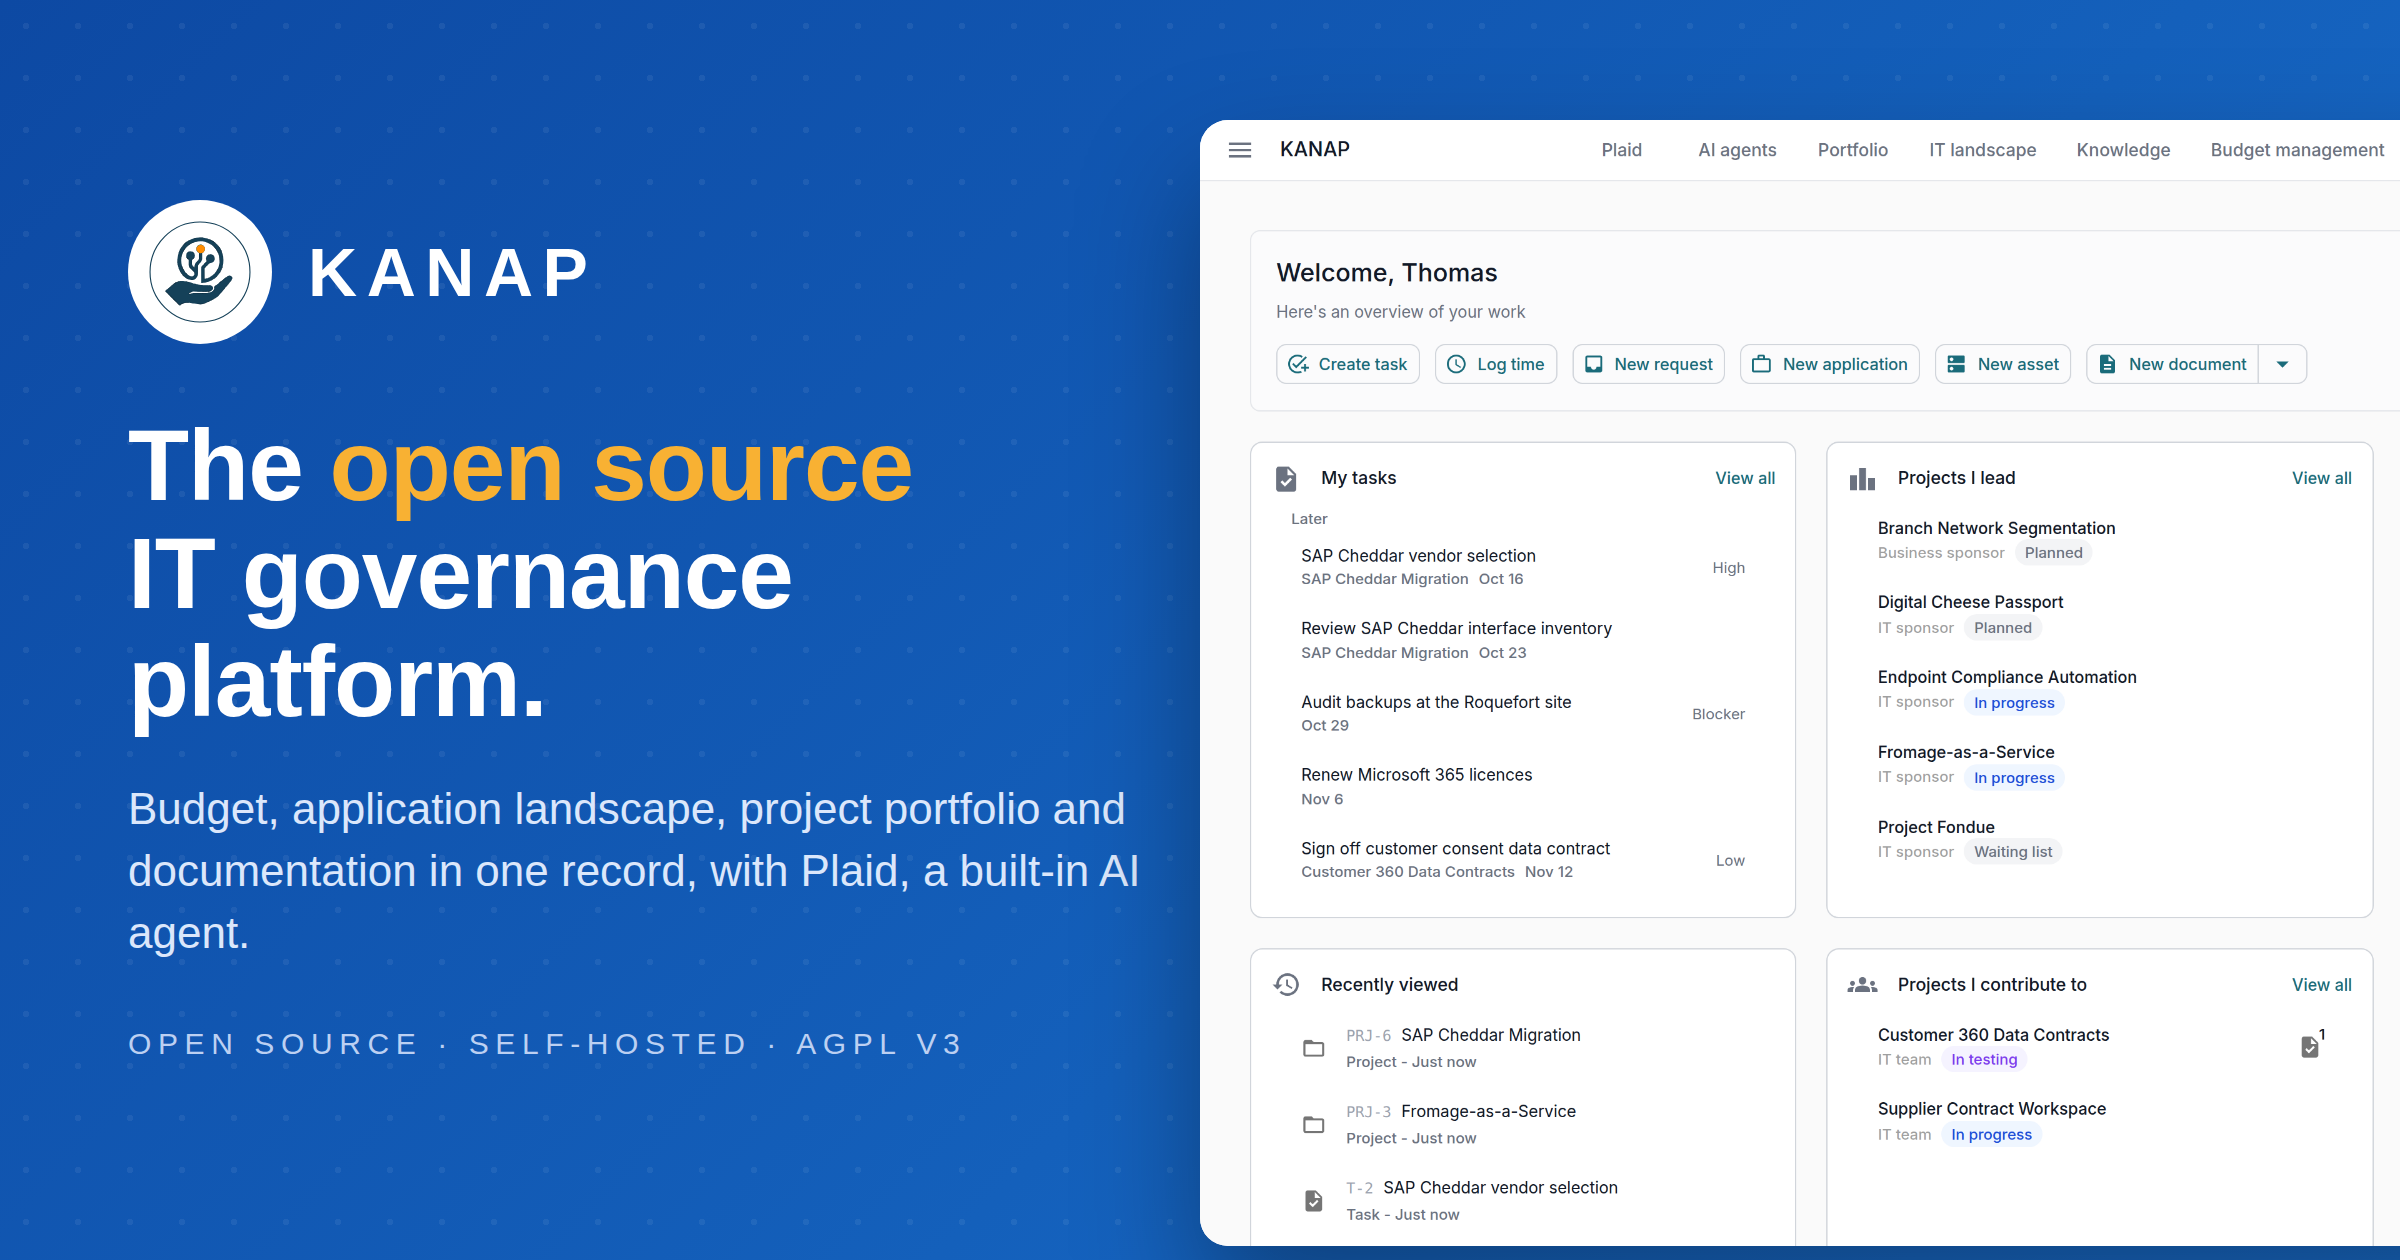
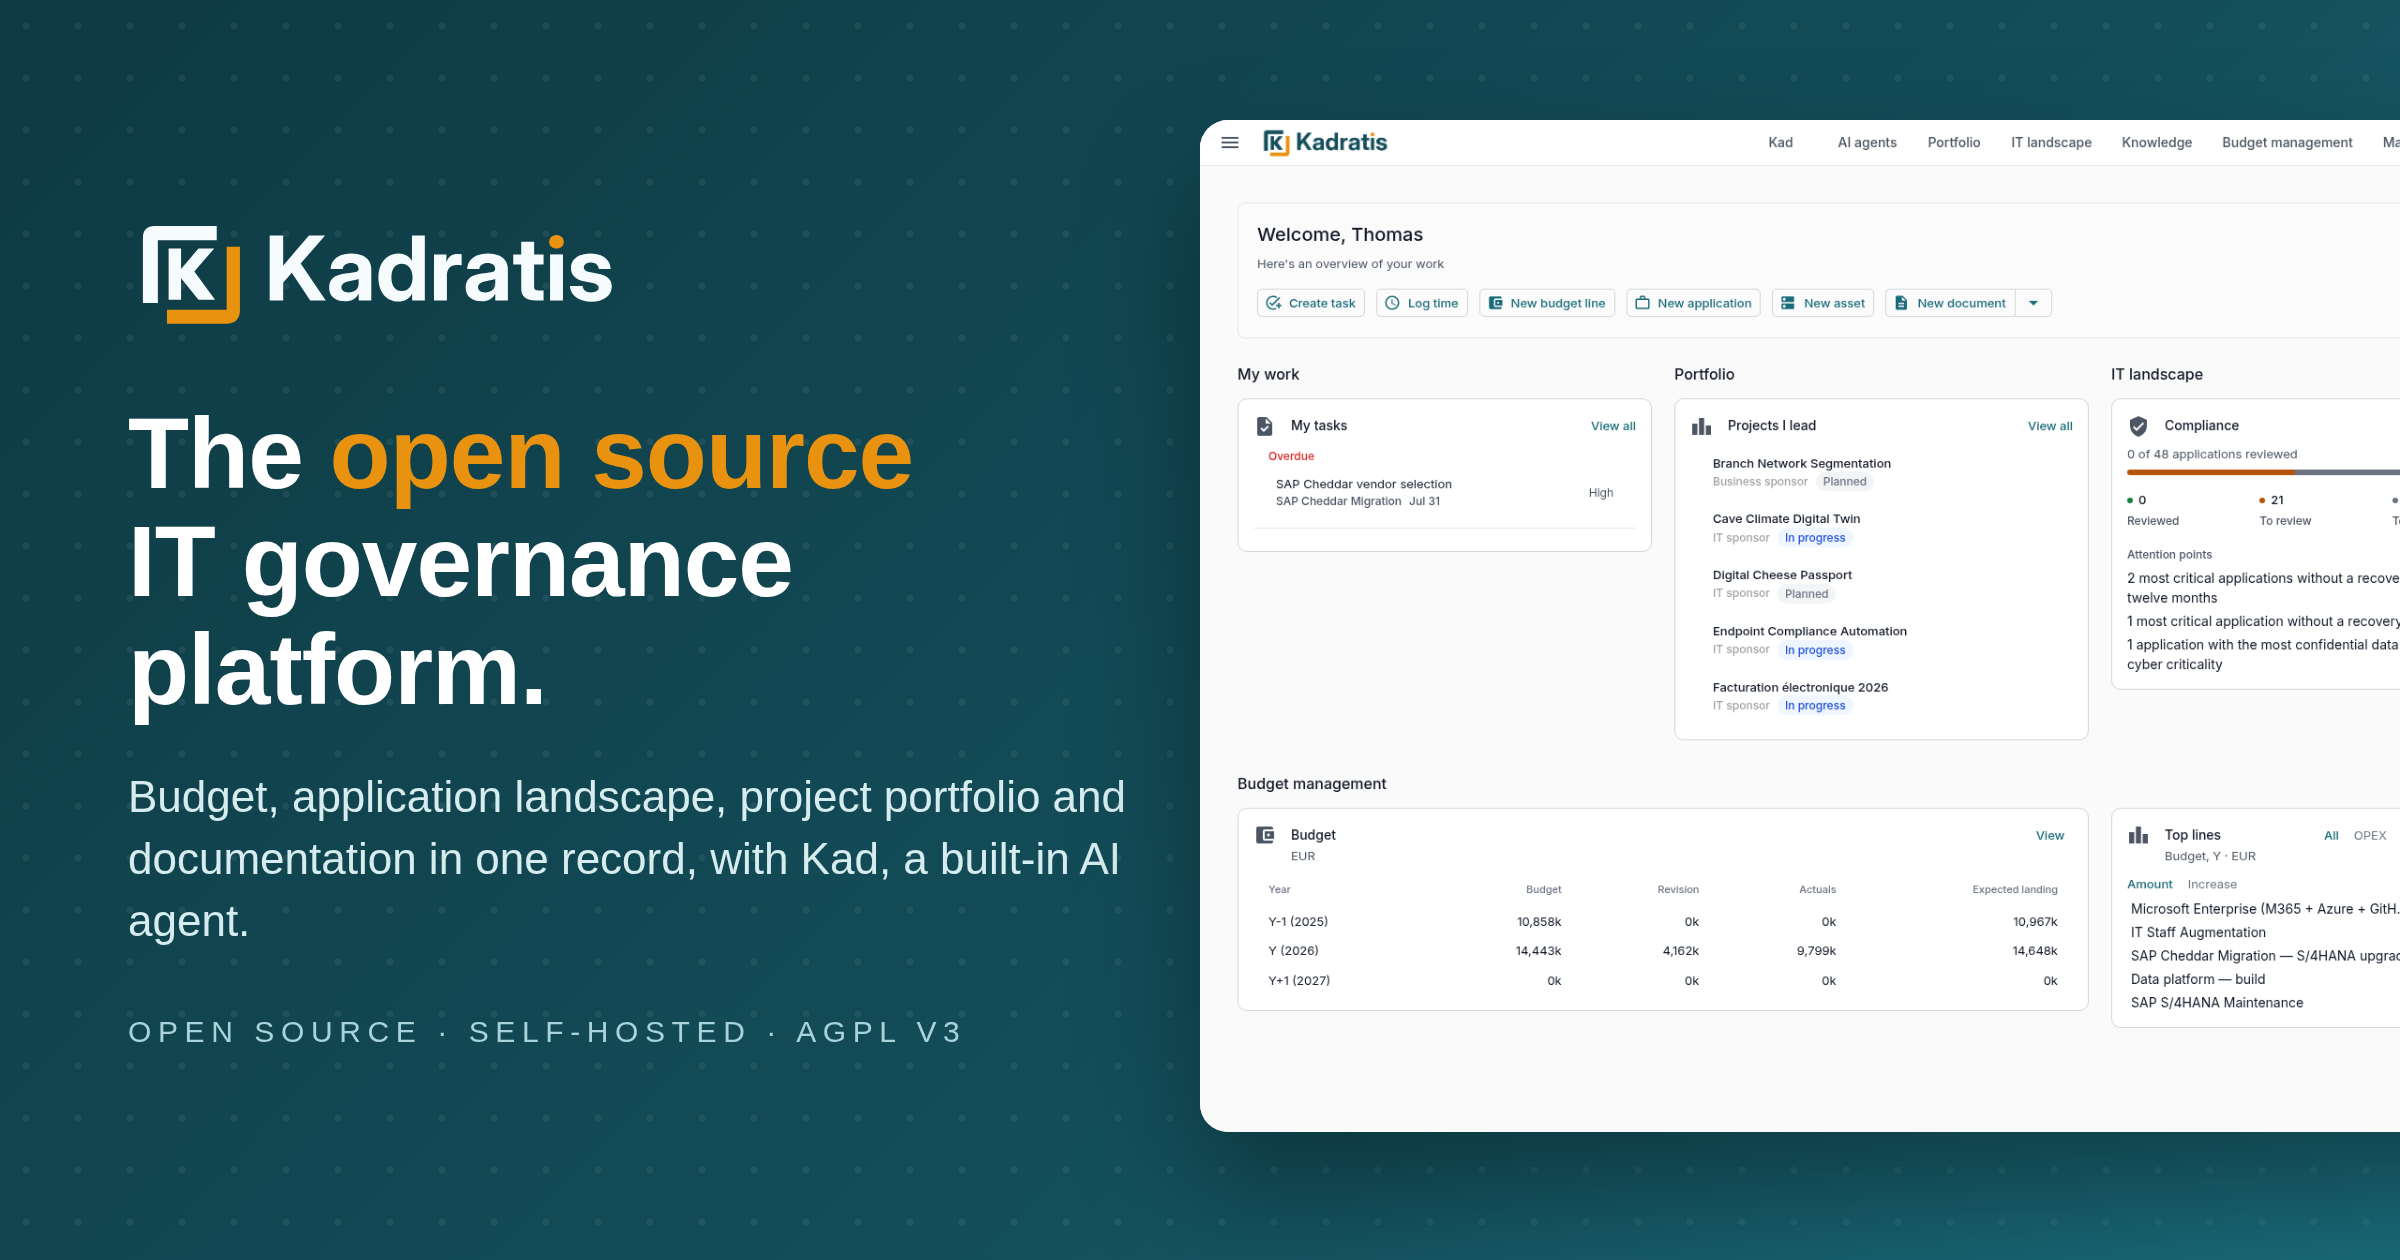
marketing: retake the remaining app screenshots on a fresh sample-data tenant
The last ten app screenshots of the site pages are taken on the renamed dev
app, on a tenant loaded from scratch with the Fromage & Co sample data
(fromage-co, 2026-11-09), free of the test records of the shared Fromage
tenant: the Kad chat query and write preview, the Kad admin page (retaken:
confirmed by a fixture user), the five AI agents screens, the Knowledge
library and editor. screenshots.ts points to them; the Claude.ai capture stays
as it was.

Home Open Graph card regenerated from the renamed home page; the
announcement article opens with that home page, in four languages.

shoot-app.mjs: targets for the five agents screens (openAgent() opens the
fixture agent on a workspace tab and hides the devtools button again after
its navigation); the activity shot leaves out Kad's write previews and the
fixture's mock triage; the proposal shot scrolls to a drafted reply and its
sources; the Kad preview asks about T-15 (the SAP renewal task of a tenant
loaded from scratch) with a future date; the editor opens a document chosen
by KNOWLEDGE_EDIT_DOC; the five LinkedIn opening-post targets of 2026-10-27
and their scrollTextTo() helper move into the script.

diff --git a/marketing/web/src/content/screenshots.ts b/marketing/web/src/content/screenshots.ts
@@ -1,7 +1,7 @@
 export const HOME_SCREENSHOT = '/screenshots/home-dashboard.png';
 
 export const HOME_HERO_SCREENSHOTS = {
-  main: '/screenshots/feature-plaid-query-2026-10-26.png',
+  main: '/screenshots/feature-plaid-query-2026-11-09.png',
   map: '/screenshots/it-interface-map-2026-11-09.png',
   budget: '/screenshots/budget-top-lines-2026-11-09.png',
 } as const;
@@ -10,9 +10,9 @@ export const FEATURE_HUB_SCREENSHOTS = [
   '/screenshots/budget-top-lines-2026-11-09.png',
   '/screenshots/it-interface-map-2026-11-09.png',
   '/screenshots/portfolio-capacity-2026-11-09.png',
-  '/screenshots/feature-plaid-query-2026-10-26.png',
+  '/screenshots/feature-plaid-query-2026-11-09.png',
   '/screenshots/it-applications-2026-11-09.png',
-  '/screenshots/agent-queue.png',
+  '/screenshots/agent-queue-2026-11-09.png',
 ] as const;
 
 export const FEATURE_SCREENSHOTS = {
@@ -37,8 +37,8 @@ export const FEATURE_SCREENSHOTS = {
     '/screenshots/portfolio-capacity-2026-11-09.png',
   ],
   knowledge: [
-    '/screenshots/knowledge-editor.png',
-    '/screenshots/knowledge-library.png',
+    '/screenshots/knowledge-editor-2026-11-09.png',
+    '/screenshots/knowledge-library-2026-11-09.png',
     '/screenshots/knowledge-document-2026-11-09.png',
     '/screenshots/knowledge-linked-entities-2026-11-09.png',
   ],
@@ -55,24 +55,25 @@ export const FEATURE_SCREENSHOTS = {
     '/screenshots/feature-incidents-relations-2026-11-09.png',
   ],
   ai: [
-    '/screenshots/feature-plaid-query-2026-10-26.png',
-    '/screenshots/feature-plaid-preview-2026-10-26.png',
+    '/screenshots/feature-plaid-query-2026-11-09.png',
+    '/screenshots/feature-plaid-preview-2026-11-09.png',
     '/screenshots/feature-plaid-claude-2026-10-26.png',
-    '/screenshots/feature-plaid-admin-2026-11-09.png',
+    '/screenshots/feature-plaid-admin-2026-11-09b.png',
   ],
 } as const;
 
 /**
- * Agents page screenshots (plan §8), captured from the live agent UI on the
- * Fromage & Co demo tenant (graduated-autonomy panel from a calibrated pilot
- * agent). In section order.
+ * Agents page screenshots (plan §8), captured from the live agent UI on a
+ * tenant loaded with the Fromage & Co sample data (2026-11-09): the fixture
+ * agent and its demo run, its autonomy ladder before any reviewed proposal.
+ * In section order.
  */
 export const AGENT_SCREENSHOTS: readonly (string | undefined)[] = [
-  '/screenshots/agent-autonomy.png',
-  '/screenshots/agent-proposal.png',
-  '/screenshots/agent-settings.png',
-  '/screenshots/agent-activity.png',
-  '/screenshots/agent-queue.png',
+  '/screenshots/agent-autonomy-2026-11-09.png',
+  '/screenshots/agent-proposal-2026-11-09b.png',
+  '/screenshots/agent-settings-2026-11-09.png',
+  '/screenshots/agent-activity-2026-11-09.png',
+  '/screenshots/agent-queue-2026-11-09.png',
 ];
 
 export type FeatureScreenshotSlug = keyof typeof FEATURE_SCREENSHOTS;

diff --git a/marketing/web/src/content/blog/de/aus-kanap-wird-kadratis.md b/marketing/web/src/content/blog/de/aus-kanap-wird-kadratis.md
@@ -9,6 +9,8 @@ draft: false
 translationKey: kanap-devient-kadratis
 ---
 
+![Die Startseite von Kadratis, mit Kad in der oberen Leiste](/screenshots/kadratis-home-2026-11-09.png)
+
 ## Warum ein neuer Name
 
 Von einem Governance-Werkzeug erwartet man Seriosität und Sorgfalt; im Französischen hört man bei KANAP aber vor allem „canap'“, kurz für Sofa. Die Assoziation mag ein Lächeln hervorrufen, sie kann aber auch kontraproduktiv sein.

diff --git a/marketing/web/src/content/blog/es/kanap-pasa-a-llamarse-kadratis.md b/marketing/web/src/content/blog/es/kanap-pasa-a-llamarse-kadratis.md
@@ -9,6 +9,8 @@ draft: false
 translationKey: kanap-devient-kadratis
 ---
 
+![La página de inicio de Kadratis, con Kad en la barra superior](/screenshots/kadratis-home-2026-11-09.png)
+
 ## Por qué un nuevo nombre
 
 De una herramienta de gobernanza se espera seriedad y rigor; pero en francés, KANAP suena sobre todo a «canap'», abreviatura de sofá. La asociación puede hacer sonreír, pero también puede resultar contraproducente.

diff --git a/marketing/web/src/content/blog/fr/kanap-devient-kadratis.md b/marketing/web/src/content/blog/fr/kanap-devient-kadratis.md
@@ -9,6 +9,8 @@ draft: false
 translationKey: kanap-devient-kadratis
 ---
 
+![L'accueil de Kadratis, avec Kad dans la barre du haut](/screenshots/kadratis-home-2026-11-09.png)
+
 ## Pourquoi un nouveau nom
 
 On attend du sérieux et de la rigueur d'un outil de gouvernance ; or en français, on entend surtout « canap' », et si l'analogie peut faire sourire, elle peut aussi être contreproductive.

diff --git a/marketing/web/src/content/blog/en/kanap-is-now-kadratis.md b/marketing/web/src/content/blog/en/kanap-is-now-kadratis.md
@@ -9,6 +9,8 @@ draft: false
 translationKey: kanap-devient-kadratis
 ---
 
+![The Kadratis home page, with Kad in the top bar](/screenshots/kadratis-home-2026-11-09.png)
+
 ## Why a new name
 
 A governance tool is expected to be serious and rigorous; yet in French, KANAP is heard first as « canap' », short for sofa. The association may raise a smile, but it can also work against you.
